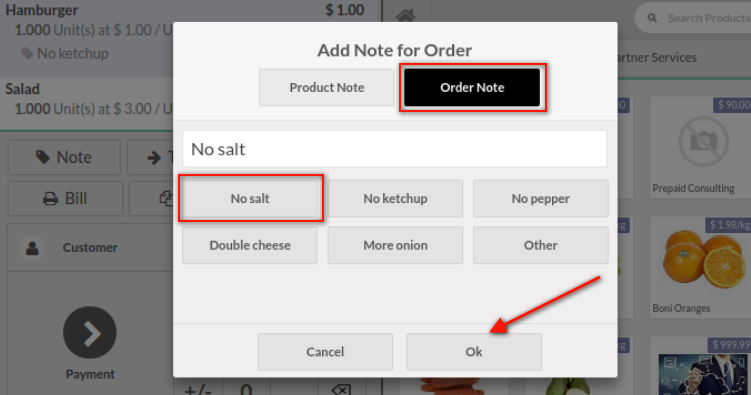
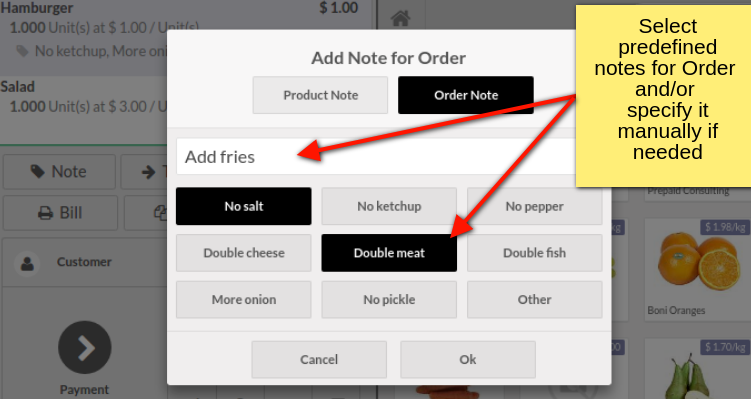
[DOC] documentation for pos_order_note module

diff --git a/pos_order_note/static/description/index.html b/pos_order_note/static/description/index.html
@@ -5,7 +5,7 @@
             <h3 class="oe_slogan">Set predefined notes for separate product or entire order</h3>
         </div>
 		<div class="oe_row_img oe_centered">
-		  <img class="oe_demo oe_picture oe_screenshot" src="pos_note_dashboard.png"/>
+		  <img class="oe_demo oe_picture oe_screenshot" src="pos_note_dashboard.png?1"/>
 		</div>
     </div>
 </section>
@@ -33,6 +33,10 @@
 				<i class="fa fa-check-square-o text-primary"></i>
 				create any number of notes
 			  </li>
+			  <li>
+				<i class="fa fa-check-square-o text-primary"></i>
+				ability to apply several notes simultaneously
+			  </li>
 			</ul>
 		</div>
       </p>		
@@ -45,45 +49,45 @@
 	<h3 class="oe_slogan">How It Works</h3>
         <div class="oe_span12 text-center">
           <p class="oe_mt32">
-			Go to <em>Point of Sale &rarr; Configuration &rarr; POS Product Notes</em> menu and create any number of notes
+			Go to <em>Point of Sale &rarr; Configuration &rarr; POS Product Notes</em> menu and create any number of notes. In POS the notes are displayed depending on sequence value. 
           </p>		
         </div>
         <div class="oe_row_img oe_centered">
-          <img class="oe_demo oe_picture oe_screenshot" src="pos_note_config.png"/>
+          <img class="oe_demo oe_picture oe_screenshot" src="pos_note_config.png?1"/>
         </div>
   </div>
 </section>
 
 <section class="oe_container oe_dark">
   <div class="oe_row oe_spaced">
-	<h4 class="oe_slogan">Product Note</h4>
+	<h4 class="oe_slogan">Product Notes</h4>
     <div class="oe_span12 text-center">
       <p class="oe_mt32">
-		Open POS session and click on the "Note" button. By default you can see Product Notes
+		<font size="3px">Open POS session and click on the "Note" button. By default you can see Product Notes</font>
       </p>
     </div>
 	<div class="oe_row_img oe_centered">
-      <img class="oe_demo oe_picture oe_screenshot" src="pos_product_note.png"/>
+      <img class="oe_demo oe_picture oe_screenshot" src="pos_product_note.png?1"/>
     </div>
 	<div class="oe_row_img oe_centered">
-      <img class="oe_demo oe_picture oe_screenshot" src="pos_product_note1.png"/>
+      <img class="oe_demo oe_picture oe_screenshot" src="pos_product_note1.png?1"/>
     </div>
   </div>
 </section>
 
 <section class="oe_container">
   <div class="oe_row oe_spaced">
-	<h4 class="oe_slogan">Order Note</h4>
+	<h4 class="oe_slogan">Order Notes</h4>
     <div class="oe_span12 text-center">
       <p class="oe_mt32">
-		To add a note to entire order switch to Order Note
+		<font size="3px">To add a note to entire order switch to Order Note</font>
       </p>		
     </div>
 	<div class="oe_row_img oe_centered">
-      <img class="oe_demo oe_picture oe_screenshot" src="pos_order_note.png"/>
+      <img class="oe_demo oe_picture oe_screenshot" src="pos_order_note.png?1"/>
     </div>
 	<div class="oe_row_img oe_centered">
-      <img class="oe_demo oe_picture oe_screenshot" src="pos_order_note1.png"/>
+      <img class="oe_demo oe_picture oe_screenshot" src="pos_order_note1.png?1"/>
     </div>
   </div>
 </section>
@@ -96,17 +100,31 @@
           </p>		
         </div>
         <div class="oe_row_img oe_centered">
-          <img class="oe_demo oe_picture oe_screenshot" src="pos_note_other.png"/>
+          <img class="oe_demo oe_picture oe_screenshot" src="pos_note_other.png?1"/>
         </div>
   </div>
 </section>
 
 <section class="oe_container">
   <div class="oe_row oe_spaced">
+	<h4 class="oe_slogan">Order printer receipt</h4>
+        <div class="oe_span12 text-center">
+          <p class="oe_mt32">
+			<font size="3px">Click on the "Order" button and see the product/order notes on receipt printed on Order printer</font>
+          </p>		
+        </div>
+        <div class="oe_row_img oe_centered">
+          <img class="oe_demo oe_picture oe_screenshot" src="pos_note_receipt.png"/>
+        </div>
+  </div>
+</section>
+
+<section class="oe_container oe_dark">
+  <div class="oe_row oe_spaced">
 	<h4 class="oe_slogan">Additional feature: automatically applied notes</h4>
     <div class="oe_span12 text-center">
       <p class="oe_mt32">
-		Open product form and go to the "Notes" tab. Here you can set note that will be applied automatically, once you add this product to an order in POS.
+		<font size="3px">Open product form and go to the "Notes" tab. Here you can set note that will be applied automatically, once you add this product to an order in POS.</font>
       </p>		
     </div>
 	<div class="oe_row_img oe_centered">

diff --git a/pos_order_note/doc/index.rst b/pos_order_note/doc/index.rst
@@ -15,7 +15,7 @@ Predefined Notes
 
 * Go to the ``Point of Sale >> Configuration >> POS Product Notes`` menu
 * Click on ``[Create]``
-* Specify ``Number`` and ``Note``
+* Specify ``Sequence`` and ``Note``
 * Click on ``[Save]``
 
 Usage
@@ -24,7 +24,7 @@ Usage
 * Go to the ``Point of Sale`` menu
 * Open a POS session
 * Click on ``Note``
-* Click on ``Product Note`` or ``Order Note`` to set note for separate product or entire order accordingly
-* Select predefined note or set new one
+* Click on ``Product Note`` or ``Order Note`` to apply notes for separate product or entire order accordingly
+* Select predefined notes and/or set a new one
 * Click on ``Ok``
 
